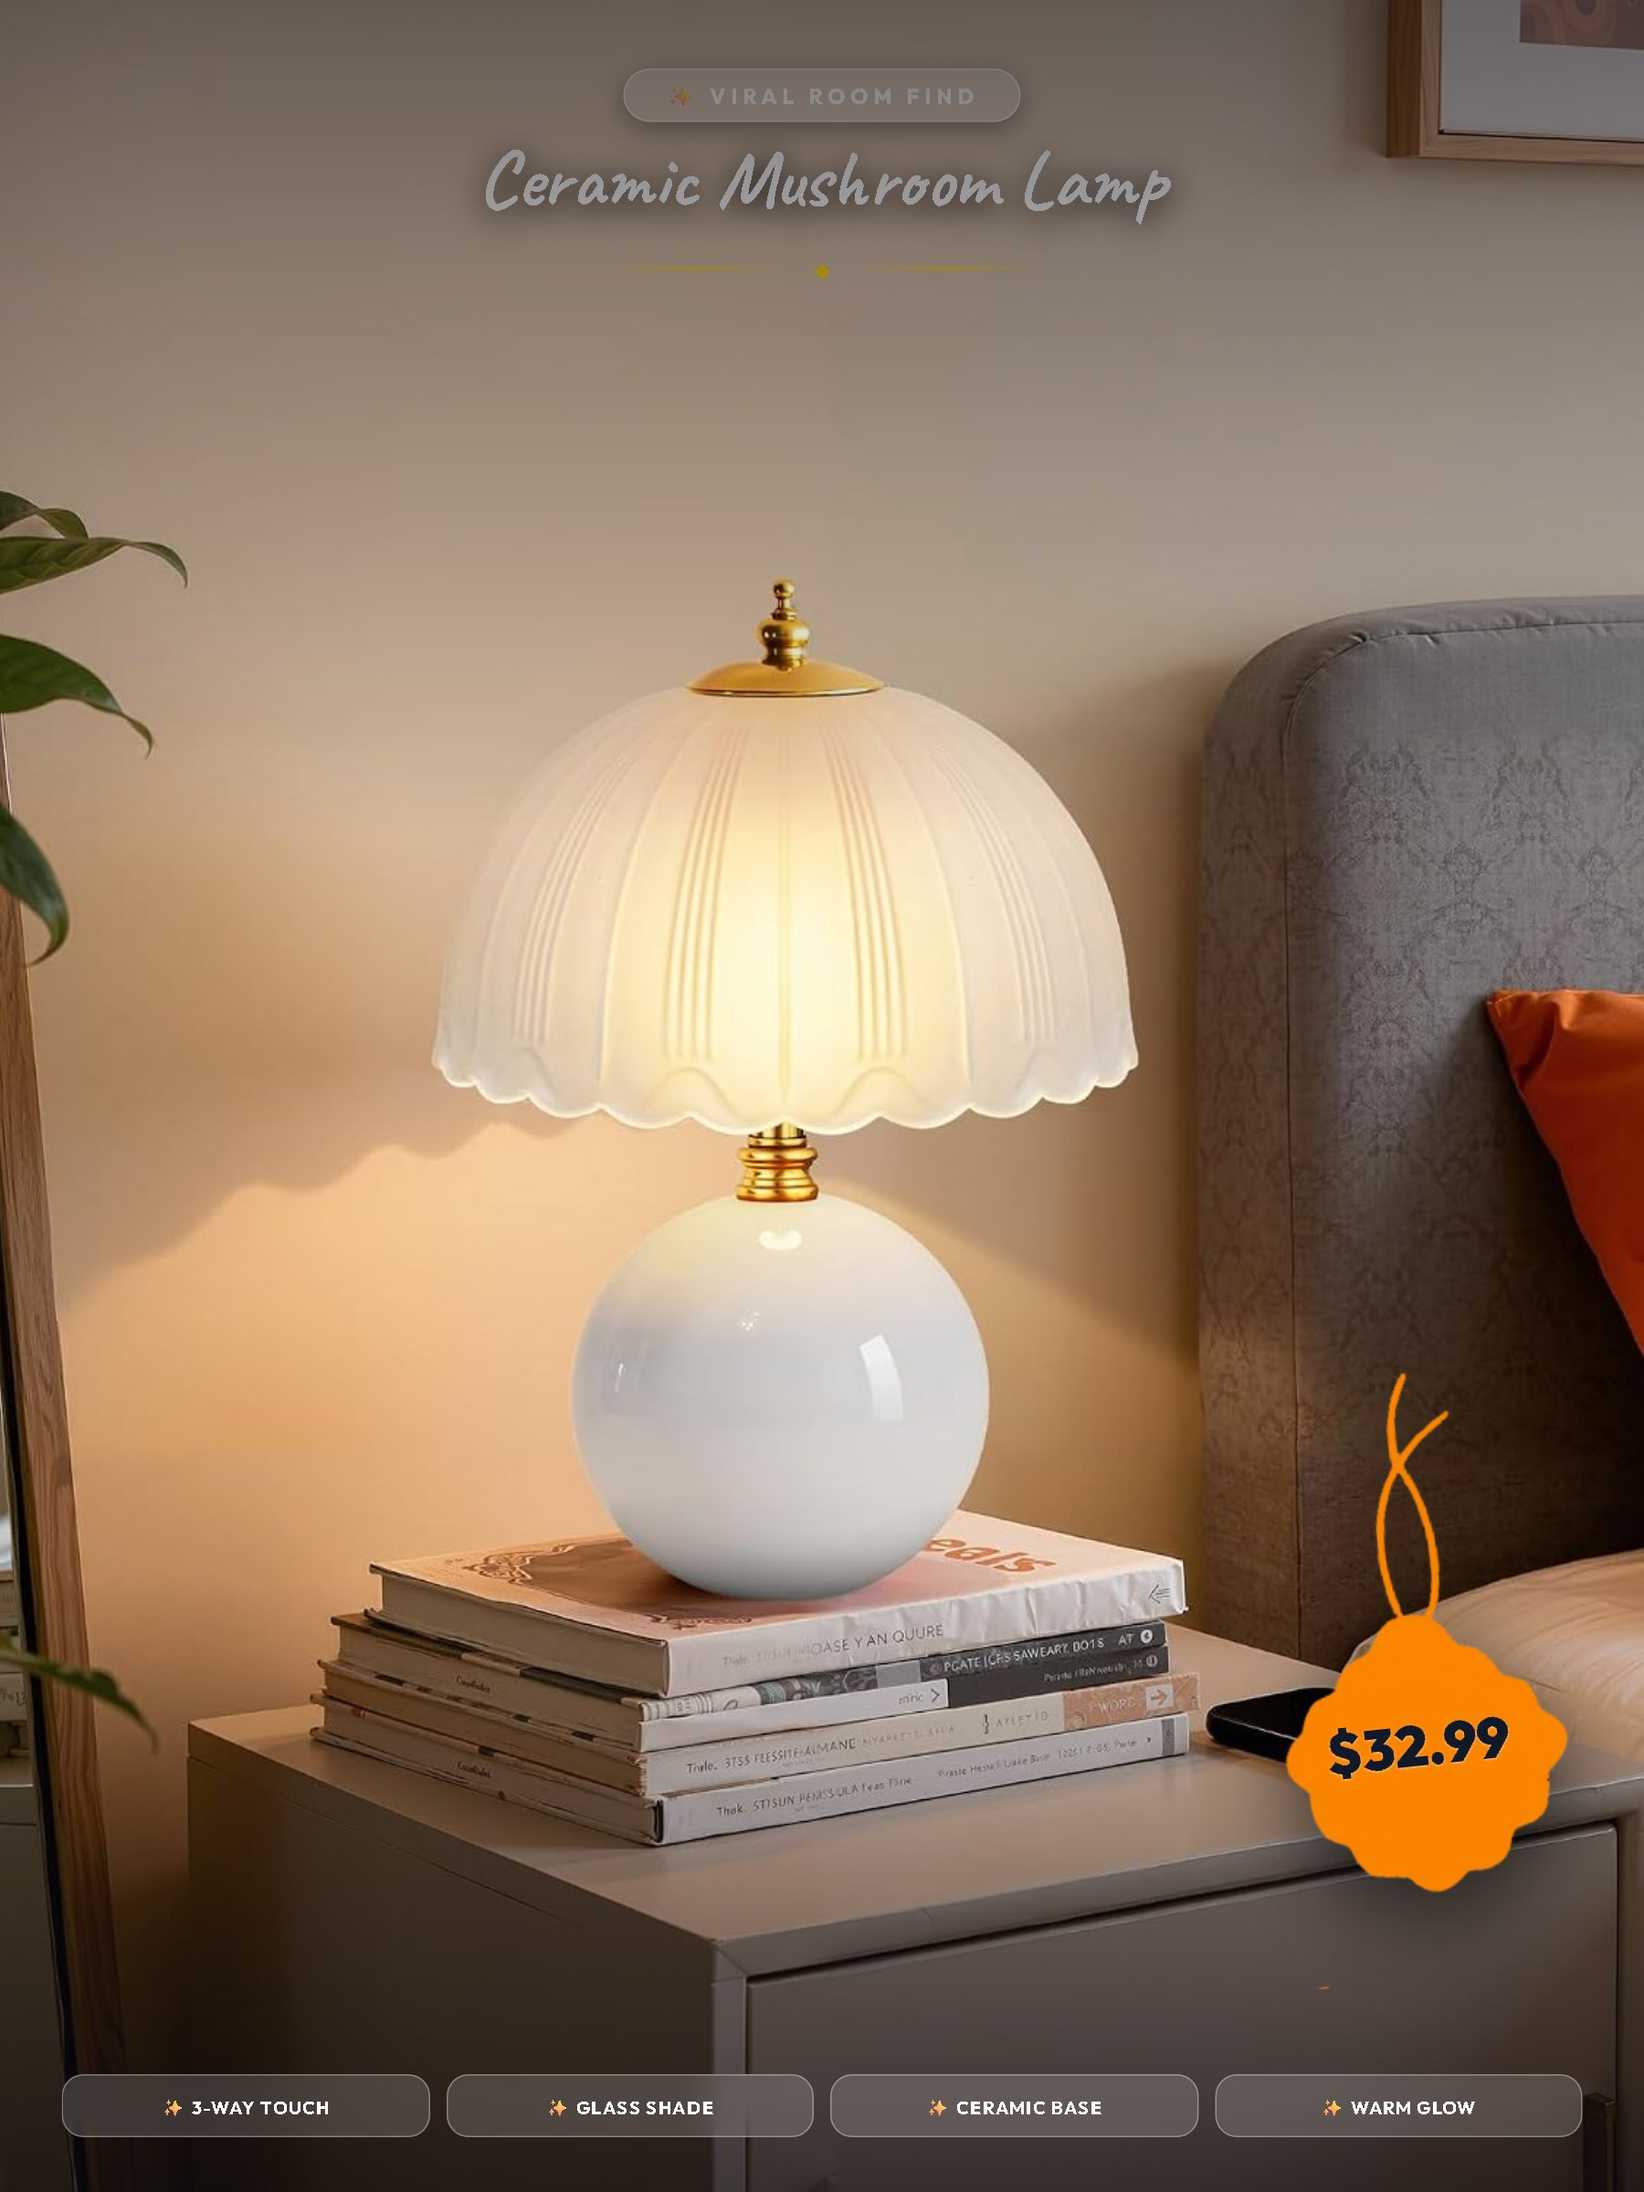
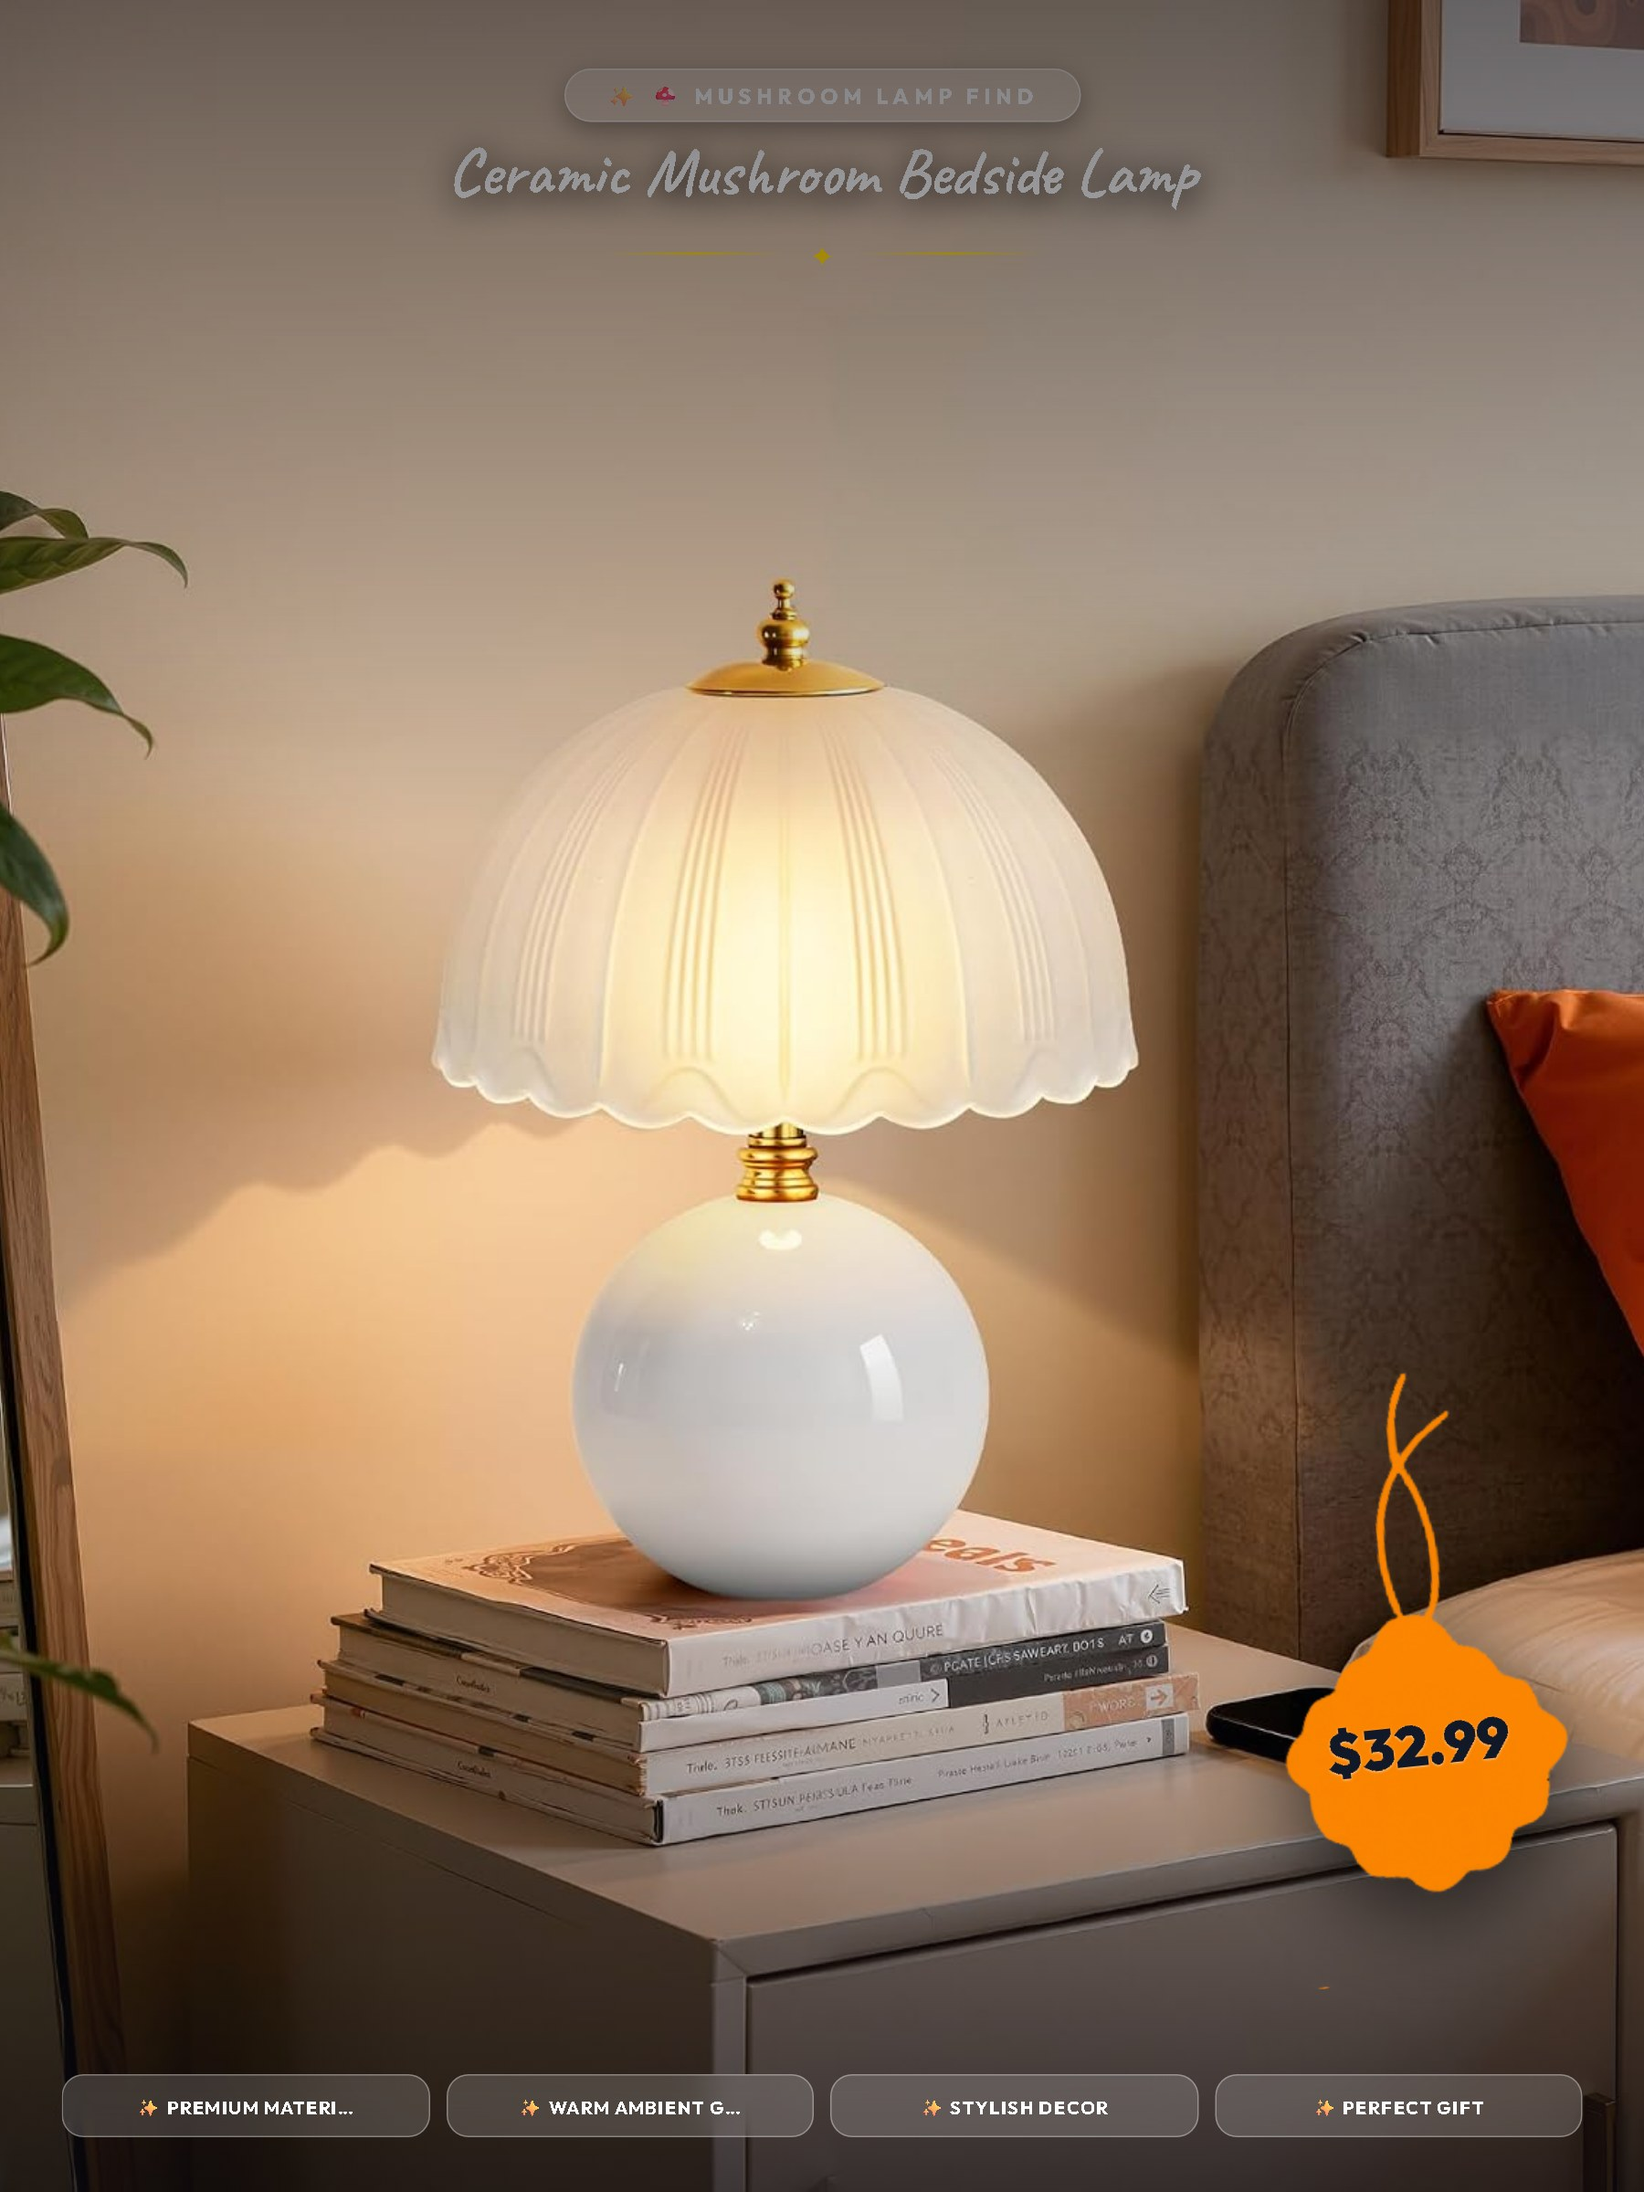
fix: update B0FGJ1S73D title on index.html and re-render pin graphic overlay

diff --git a/index.html b/index.html
@@ -886,10 +886,10 @@
 <div class="card-img-container">
 <div class="card-price-tag">$32.99</div>
 <div class="card-rating">★ 4.8</div>
-<img alt="Product B0FGJ1S73D" src="./focus_product_B0FGJ1S73D_hook.jpg?v=1785753311"/>
+<img alt="Ceramic Mushroom Bedside Lamp with Glass Shade" src="./focus_product_B0FGJ1S73D_hook.jpg?v=1785753311"/>
 </div>
 <div class="card-content">
-<h2>Product B0FGJ1S73D</h2>
+<h2>Ceramic Mushroom Bedside Lamp with Glass Shade</h2>
 <div class="card-cta">
 <span>View Details</span>
 <span class="arrow">→</span>
@@ -898,7 +898,6 @@
 </a>
 <button class="delete-btn" onclick="deleteCard('B0FGJ1S73D', 'card-B0FGJ1S73D')">🗑 Delete Product</button>
 </div>
-<!-- Card B0FGJ1S73D -->
 <!-- No Results Empty State -->
 <div id="noResults" style="display: none; grid-column: 1/-1; padding: 50px 20px; text-align: center; color: var(--text-sub); background: rgba(22,19,32,0.6); border-radius: 24px; border: 1px dashed rgba(255,255,255,0.12);">
 <div style="font-size: 40px; margin-bottom: 12px;">📦</div>

diff --git a/rebuild_all_price_badges_usd.py b/rebuild_all_price_badges_usd.py
@@ -78,6 +78,13 @@ items_to_rebuild = [
         "raw": "raw_images/raw_B0DXKGL1T2.jpg",
         "hook": "focus_product_B0DXKGL1T2_hook.jpg",
         "badge": "✨ VIRAL ROOM FIND"
+    },
+    {
+        "asin": "B0FGJ1S73D",
+        "title": "Ceramic Mushroom Bedside Lamp",
+        "raw": "raw_images/raw_B0FGJ1S73D.jpg",
+        "hook": "focus_product_B0FGJ1S73D_hook.jpg",
+        "badge": "🍄 MUSHROOM LAMP FIND"
     }
 ]
 
